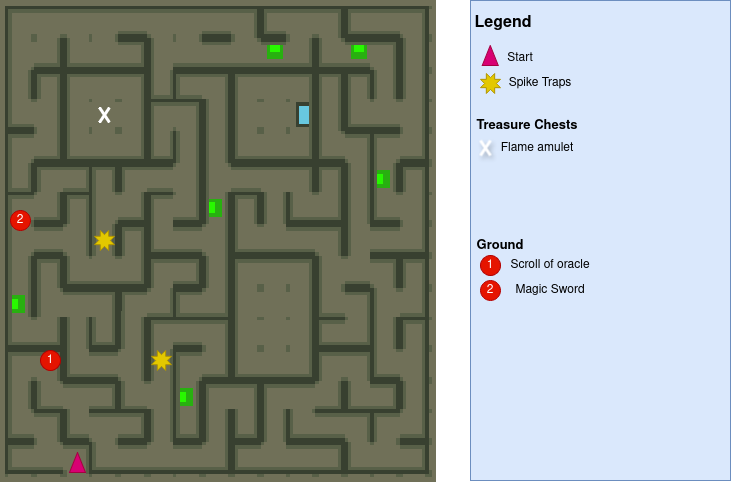
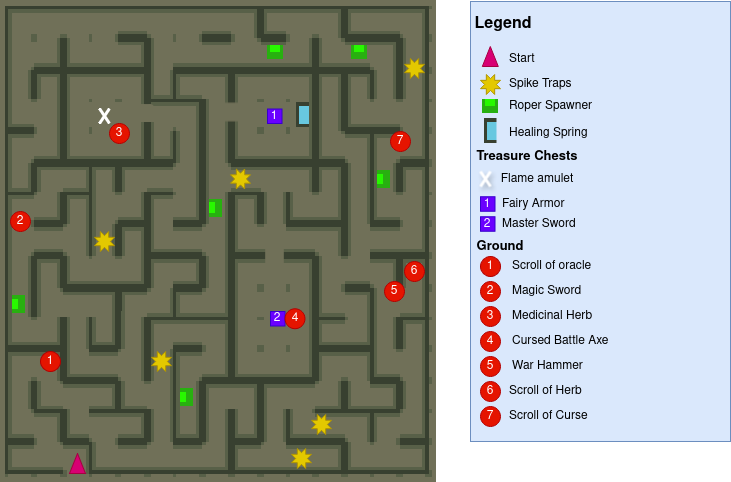
mapped til ruins

diff --git a/readme.md b/readme.md
@@ -26,7 +26,22 @@ As per Mechalink's [guide](https://docs.google.com/document/d/1oGy78nvTUnASmYIBs
 ![Overworld Map](img/maps/overworld.png)
 
 ## 1. Graveyard
-![Overworld Map](img/maps/graveyard.png)
+![Graveyard](img/maps/graveyard.png)
+### Useful items
+- Crucifix: Needed to hurt the vampire if you're not carrying the Master Sword or the Sword of Light.
+- Amethyst: Used in conjunction with the Emerald and Red Diamond to turn the final boss teleports into a visible teleport.
+- Dark Sword: Projectile weapon, useful early on against Mad Dragon
+- Stamina Drink
 
-## 4. Ruins [WIP] 
+## 2. Vampire's Mansion
+_Welcome to the only house in Hydlide_
+
+![Mansion Map](img/maps/mansion.png)
+
+
+## 3. Trial Dungeon
+_Careful with the sparks_
+
+![Trial Dungeon Map](img/maps/trial.png)
+## 4. Ruins 
 ![Ruins Map](img/maps/ruins.png)
